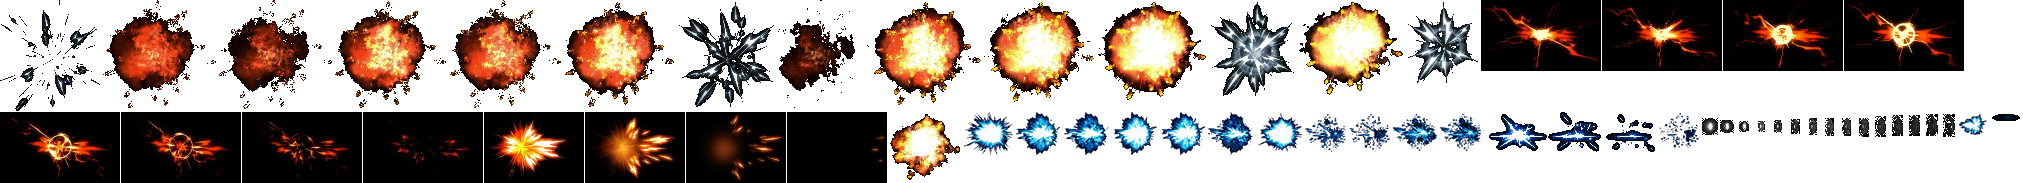
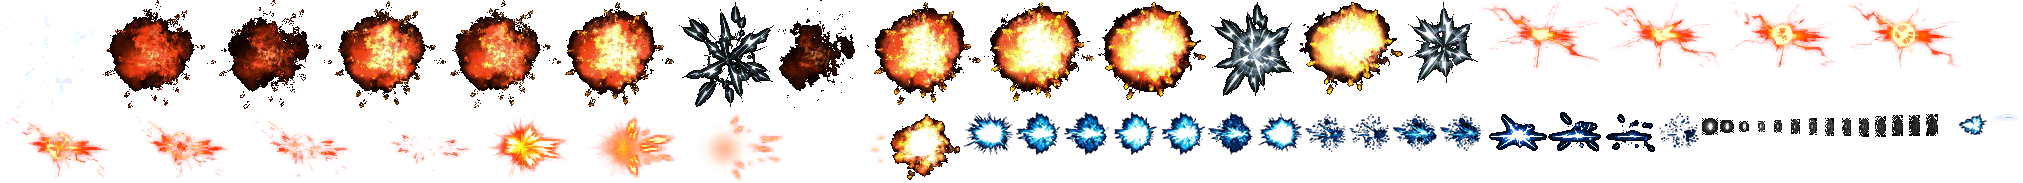
Acervo: efeitos do Drag Warriors sem fundo preto (mistura aditiva vira transparência)
Claude-Session: https://claude.ai/code/session_01HCkMABBTabu8ZCQcCpT9gq

diff --git a/tools/aditivo_acervo.py b/tools/aditivo_acervo.py
@@ -1,0 +1,51 @@
+#!/usr/bin/env python3
+"""
+Efeitos do acervo feitos para mistura aditiva (fundo preto opaco) → transparência pelo brilho, direto nos atlas.
+
+Mesmo critério do tools/extrair_mugen.py: um quadro é convertido quando mais de 35% dos pixels visíveis são preto
+puro; alfa = canal mais forte e a cor perde a escuridão (c' = c * 255 / alfa). Contornos de personagem ficam bem
+abaixo disso. Só mexe em sprites do tipo "efeitos" (cenários de espaço são pretos de verdade).
+
+Uso: python3 -I tools/aditivo_acervo.py <prefixo ou id> [...]   (ex.: dw_)
+"""
+import json, os, sys
+import numpy as np
+from PIL import Image
+
+RAIZ = os.path.dirname(os.path.dirname(os.path.abspath(__file__)))
+sys.path.insert(0, os.path.dirname(os.path.abspath(__file__)))
+from extrair_mugen import aditivo
+
+
+def ler(sid):
+    s = open(os.path.join(RAIZ, 'data/acervo', sid + '.js'), encoding='utf-8').read()
+    return json.loads(s[s.index(',') + 1:s.rindex(')')])
+
+
+def main():
+    alvos = sys.argv[1:]
+    indice = json.load(open(os.path.join(RAIZ, 'data/acervo/indice.json'), encoding='utf-8'))['sprites']
+    ids = sorted(i for i in indice if indice[i]['tipo'] == 'efeitos' and any(i == a or i.startswith(a) for a in alvos))
+    por_atlas = {}                                          # atlas → retângulos (um atlas pode ser de mais de um sprite)
+    for sid in ids:
+        d = ler(sid)
+        for a in d['anims'].values():
+            for f in a['frames']:
+                por_atlas.setdefault(d['atlases'][f[0]], set()).add(tuple(f[1:5]))
+    total = conv = 0
+    for rel, rects in sorted(por_atlas.items()):
+        p = os.path.join(RAIZ, rel)
+        im = Image.open(p).convert('RGBA')
+        mudou = False
+        for x, y, w, h in rects:
+            total += 1
+            q = aditivo(im.crop((x, y, x + w, y + h)))
+            if q is not None:
+                im.paste(q, (x, y)); mudou = True; conv += 1
+        if mudou:
+            im.save(p, optimize=True)
+    print('%d sprites de efeitos, %d atlas, %d de %d quadros convertidos' % (len(ids), len(por_atlas), conv, total))
+
+
+if __name__ == '__main__':
+    main()

diff --git a/docs/DIARIO.md b/docs/DIARIO.md
@@ -498,3 +498,7 @@ Cache do app: `finalflash-v47`.
 - `tools/extrair_jogos.py` (Unity): lê os SpriteAtlas e a lista de arquivos externos do SerializedFile (PPtr com fileID > 0); o Sprite guarda a chave de render (`m_RenderDataKey`); sprite empacotado usa o recorte do atlas, com a origem pelo pivot do Sprite menos o offset do recorte. Empacotados girados/espelhados ficam de fora (avisa a contagem). Nova opção `--so-atlas`: refaz só as folhas de atlas, com os mesmos ids, e mantém o resto da ficha da fonte.
 - Legend Warrior feito: `lw_sactx_…ui_character_pack` → 104 rostos/corpos com nome (beerus, gogeta_base, turles…; nome "Ui character pack (atlas)"), `lw_sactx_…ui_stages_image` → 10 cenários.
 - Drag Warriors feito com o `Drag Warriors.zip` que já estava em `T:\Project Final Flash Sprites` (gerado pelo `compactar_tudo`; o usuário pediu para eu fazer em vez de compactar à mão): 540 recortes em 37 folhas (auras, faíscas, explosões, Kamehameha, rostos `a_face_pack`, cenários…). As 4 restantes são cópias repetidas (ids terminados em "_") e ficam inteiras. `--so-atlas` mantém o tipo que cada folha já tinha (sem isso, auras e faíscas iam para "personagens").
+
+## 2026-11-19 — Fundo preto dos efeitos do Drag Warriors + por que efeitos do KODAIKA são cinza
+- `tools/aditivo_acervo.py <prefixo>`: converte, direto nos atlas, os quadros de efeitos feitos para mistura aditiva (critério e conta do `extrair_mugen.py`; só sprites do tipo "efeitos"). Drag Warriors: 58 de 376 quadros em 44 sprites.
+- Efeitos "sem cor" do KODAIKA (relato do usuário): não é erro da extração. No M.U.G.E.N muitos efeitos são desenhados com uma paleta-molde cinza (ex.: Gohan, paleta 7500,1) e o personagem troca por uma das paletas coloridas do mesmo grupo (7500,2…19) na hora do golpe (RemapPal no .cns) — o mesmo desenho vira aura azul, dourada etc. O acervo guarda o molde. Quadros quase cinza nos sprites `kaw_*_efeitos`: Goku SSGSS 298/355, Janemba 268/314, Gohan 125/128… Opções apresentadas ao usuário: cor no clipe de efeito do Estúdio (tinge qualquer efeito cinza) ou gerar versões coloridas com as paletas do próprio jogo.
